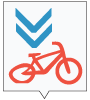
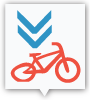
changed overload to be better visible and made it larger

diff --git a/js/imbalances.js b/js/imbalances.js
@@ -12,7 +12,7 @@ function showImbalance(timep) {
   var overloadIcon = L.icon( {
     iconUrl: 'images/overload.png',
 
-    iconSize:     [25, 15], // size of the icon
+    iconSize:     [32, 35], // size of the icon
     shadowSize:   [38, 35], // size of the shadow
     iconAnchor:   [22, 35], // point of the icon which will correspond to marker's location
     shadowAnchor: [4, 34],  // the same for the shadow
